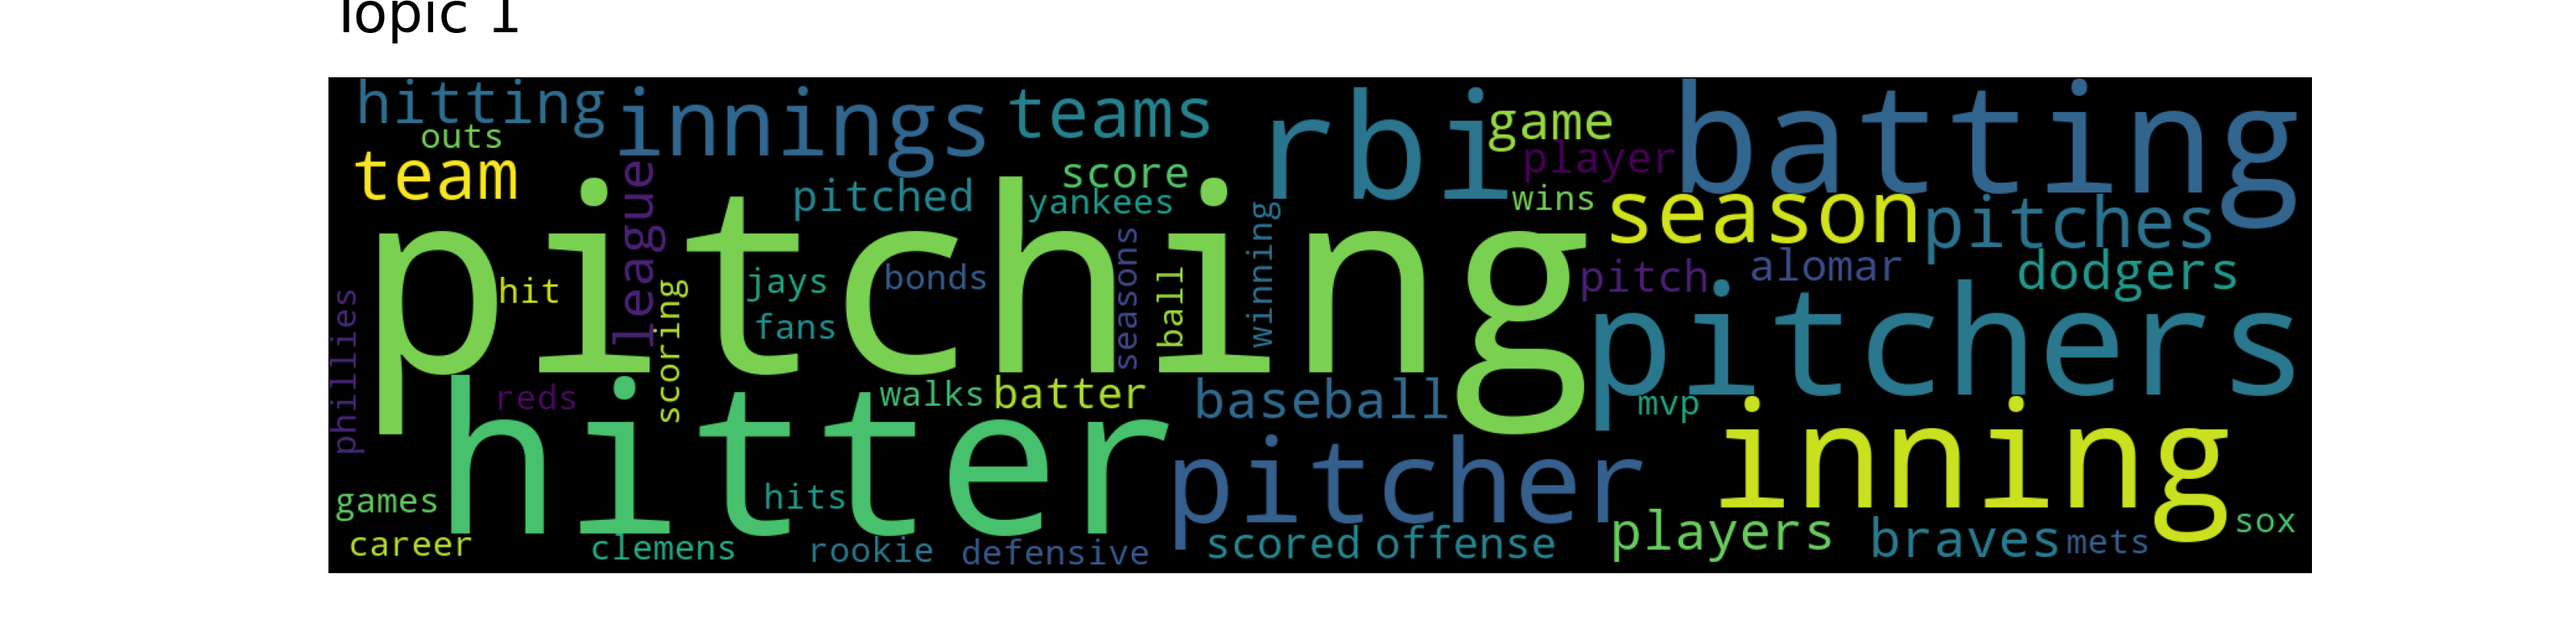
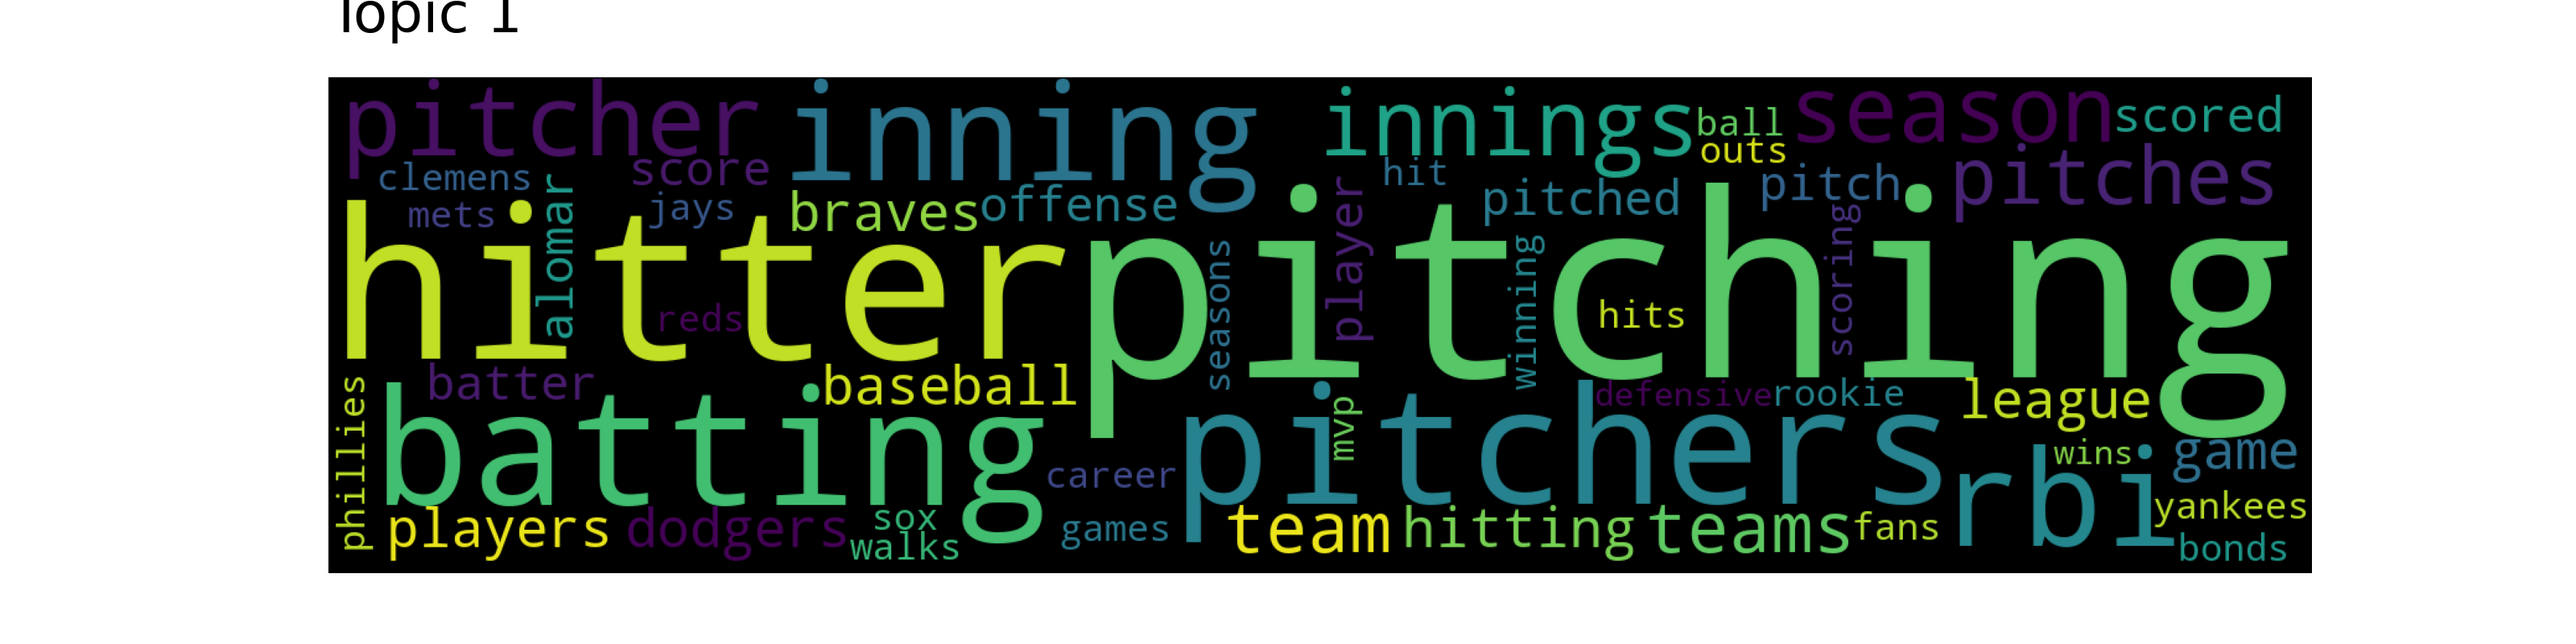
add LDA; not fully working

Changed region(s): [[0.125, 0.125, 0.9062, 0.875]]

diff --git a/main.py b/main.py
@@ -1,32 +1,139 @@
-import streamlit as st
-from top2vec import Top2Vec as T2V
 
+from top2vec import Top2Vec as T2V
+from gensim.models import LdaModel #, ldamulticore
+from gensim.corpora import Dictionary
+
+import nltk
+from nltk.tokenize import RegexpTokenizer
+from nltk.stem.wordnet import WordNetLemmatizer
+
+from time import time
+import io, re, tarfile, smart_open, os.path
+
+import streamlit as st
+from wordcloud import WordCloud
+from scipy.special import softmax
 import matplotlib.pyplot as plt
 
+#import logging
+#logging.basicConfig(format='%(asctime)s : %(levelname)s : %(message)s', level=logging.INFO)
 
-st.title('CS410 Project: Topic Modeling')
-
-avail_data = ['arxiv', 'twitter', 'cbc', 'reddit', 'sklearn20news']
-dataset = st.sidebar.selectbox('dataset', avail_data, index=4, help='Choose dataset to perform topic modeling')
-
-avail_algo = ['top2vec', 'LDA']
-algo = st.sidebar.selectbox('algorithm', avail_algo, help='Choose algorithm to perform topic modeling')
-
-
-if dataset=='arxiv':
-    date = st.sidebar.date_input('date')
-    start = st.sidebar.time_input('time')
 
 @st.cache
-def generate_model():
-    model = T2V.load('models/20news.model')
+def extract_documents(url='https://cs.nyu.edu/~roweis/data/nips12raw_str602.tgz'):
+    with smart_open.open(url, "rb") as file:
+        with tarfile.open(fileobj=file) as tar:
+            for member in tar.getmembers():
+                if member.isfile() and re.search(r'nipstxt/nips\d+/\d+\.txt', member.name):
+                    member_bytes = tar.extractfile(member).read()
+                    yield member_bytes.decode('utf-8', errors='replace')
+                    
+@st.cache
+def create_wordcloud(model, topic, nWords=30):
+    # word_score_dict = dict(zip(
+        # model.topic_words[topic],
+        # softmax(self.topic_word_scores[topic_num])
+    # ))
+    
+    wc = WordCloud(width=1600, height=400, background_color='black')
+    if type(model) is LdaModel:
+        wc = wc.generate_from_frequencies(dict(model.show_topic(topic, nWords)))
+    else:
+        word_prob = zip(
+            model.topic_words[topic], 
+            softmax(model.topic_word_scores[topic])
+        )
+        wc = wc.generate_from_frequencies(dict(word_prob))
+    return wc.to_array()
+    
+    
+@st.cache
+def generate_LDA_model(data, n_topic):
+    docs = list(extract_documents())[:99]
+
+    tokenizer = RegexpTokenizer(r'\w+')
+    for idx in range(len(docs)):
+        docs[idx] = docs[idx].lower()  # Convert to lowercase.
+        docs[idx] = tokenizer.tokenize(docs[idx])  # Split into words.
+    docs = [[token for token in doc if not token.isnumeric()] for doc in docs]
+    docs = [[token for token in doc if len(token) > 2] for doc in docs]
+
+    #nltk.download('wordnet')
+    docs = [ [WordNetLemmatizer().lemmatize(token) for token in doc] for doc in docs]
+
+    dictionary = Dictionary(docs)
+    dictionary.filter_extremes(no_below=9, no_above=.5)   # Filter out words that occur in <20 docs or >50% of docs
+    corpus = [dictionary.doc2bow(doc) for doc in docs]
+    _ = dictionary[0]  # This is only to "load" the dictionary.
+
+    passes = 5  #20
+    iterations = 100  #400
+    model = LdaModel(
+        corpus, n_topic, dictionary.id2token, chunksize=2000,
+        alpha='auto', eta='auto', passes=passes, iterations=iterations, eval_every=None
+    ) 
     return model
 
-model = generate_model()
-_n = model.get_num_topics()
-ntopic = st.sidebar.number_input('number of topics', 1, 999, _n, 
-                                 help=f'{_n} is the recommended number determined by the algorithm, but you are free to modify it to see how it changes the topic model') 
 
-model.generate_topic_wordcloud(1)
-plt.savefig('data/temp.png')
-st.image('data/temp.png', caption='wordcloud for topic 1')
+@st.cache
+def generate_t2v_model(data, speed='learn'):
+    if data == 'sklearn20news':
+        return T2V.load('models/20news.model')
+    else:
+        return T2V(documents=newsgroups.data, speed=speed)
+
+    
+st.set_page_config('CS410 Project: Topic Modeling', layout="wide")
+
+#st.title('CS410 Project: Topic Modeling')
+left, right = st.columns(2)
+left.header('top2vec'); right.header('LDA')
+
+avail_data = ['arxiv', 'twitter', 'NYU/nips12raw_str602', 'reddit', 'sklearn20news']
+dataset = st.sidebar.selectbox('dataset', avail_data, index=4, help='Choose dataset to perform topic modeling')
+
+# avail_algo = ['top2vec', 'LDA']
+# algo = st.sidebar.selectbox('algorithm', avail_algo, help='Choose algorithm to perform topic modeling')
+
+if dataset=='arxiv':
+    fromdate = st.sidebar.date_input('from date')
+    start = st.sidebar.time_input('time')
+
+n_topic_input = st.sidebar.empty()
+topic_selection = st.sidebar.empty() 
+
+run_t2v = st.sidebar.button('run top2vec')
+#run_lda = st.sidebar.empty()
+
+if run_t2v:
+    t2v_model = generate_t2v_model(dataset)
+    n_topic = t2v_model.get_num_topics()
+    
+    nOptions = 33 if 33 < n_topic else n_topic      # 33 is arbitrary
+    topics, _, __ = t2v_model.get_topics(nOptions)
+    topic_words = [words[0] for words in topics] 
+    
+    n_topic = n_topic_input.number_input('number of topics for LDA', 1, 9999, n_topic, help=f'{n_topic} is the number recommended by the top2vec algorithm for this dataset.')
+
+
+    topic = topic_selection.selectbox('search topic by word', topic_words)
+    
+    img = [create_wordcloud(t2v_model, i) for i in range(3)]
+    left.image(img)
+    
+    run_lda = st.sidebar.button('run LDA')
+    
+    if run_t2v and run_lda: #st.sidebar.button('run LDA'): 
+        lda_model = generate_LDA_model(dataset, n_topic)
+        img = [create_wordcloud(lda_model, i) for i in range(3)]
+        right.image(img)
+
+
+# _n = model.get_num_topics()
+# ntopic = st.sidebar.number_input('number of topics', 1, 999, _n, 
+#                                  help=f'{_n} is the recommended number determined by the algorithm, but you are free to modify it to see how it changes the topic model') 
+
+# model.generate_topic_wordcloud(1)
+# plt.savefig('data/temp.png')
+
+#st.image('data/lda.svg', caption='wordcloud for topic 1')
